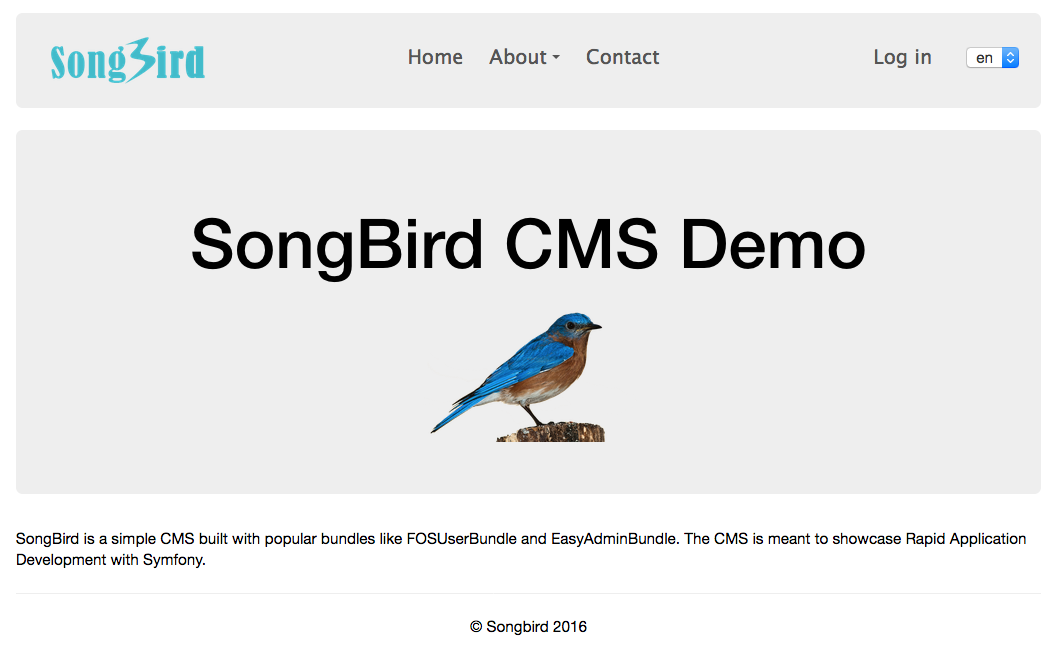
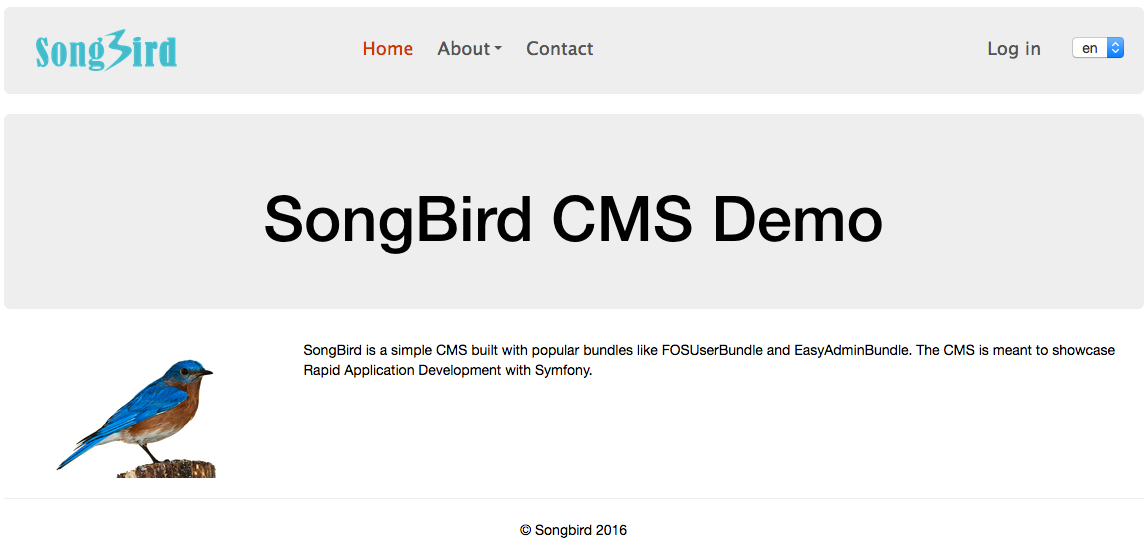
minor tweak to frontend

diff --git a/manuscript/Chapter_20.md b/manuscript/Chapter_20.md
@@ -198,12 +198,19 @@ We will now create a homepage view.
 {% if pagemeta is not null %}
 	<div class="jumbotron">
 		<h1 class="text-center">{{ pagemeta.getShortDescription() | raw }}</h1>
-		{%  if pagemeta.featuredImage is not null %}
-			<img class="featured_image" src="{{ vich_uploader_asset(pagemeta, 'featuredImageFile') }}" alt="{{ pagemeta.getShortDescription() | striptags }}"/>
-		{% endif %}
 	</div>
 
-	{{ pagemeta.getContent() | raw }}
+	<div class="row-fluid">
+		<div class="pull-left col-xs-3 col-md-3">
+			{%  if pagemeta.featuredImage is not null %}
+				<img class="featured_image" src="{{ vich_uploader_asset(pagemeta, 'featuredImageFile') }}" alt="{{ pagemeta.getShortDescription() | striptags }}"/>
+			{% endif %}
+		</div>
+		<div class="pull-right col-xs-9 col-md-9">
+			{{ pagemeta.getContent() | raw }}
+		</div>
+	</div>
+	<div class="clearfix"></div>
 
 {% endif %}
 {% endblock %}
@@ -225,7 +232,7 @@ and pages view
 {% block content %}
 
 	{% if pagemeta is not null %}
-	<h1>{{ pagemeta.getShortDescription() | raw }}</h1>
+	<h2>{{ pagemeta.getShortDescription() | raw }}</h2>
 
 	{%  if pagemeta.featuredImage is not null %}
 		<img class="featured_image" src="{{ vich_uploader_asset(pagemeta, 'featuredImageFile') }}" alt="{{ pagemeta.getShortDescription() | striptags }}"/>

diff --git a/manuscript/Introduction.md b/manuscript/Introduction.md
@@ -161,9 +161,12 @@ composer update
 If you are already getting impatient and wants to see a demo of the completed project, you can
 
 ```
+# If you are new to web development, you might be unfamiliar with some of the commands here. Don't worry as they will be explained as you follow through the chapters sequentially.
+
 -> git clone https://github.com/bernardpeh/songbird
 -> cd songbird
 -> git checkout chapter_final
+-> composer update
 -> vagrant up
 -> cd symfony
 -> composer update
@@ -180,6 +183,9 @@ If you are already getting impatient and wants to see a demo of the completed pr
 
 # add IP of your VM to your host file
 # eg. 192.168.56.111 songbird.app adminer.app
+
+# create the uploads dir
+mkdir -p web/uploads/featured_images
 
 # install db and fixtures
 -> scripts/resetapp

diff --git a/manuscript/Chapter_16.md b/manuscript/Chapter_16.md
@@ -345,7 +345,7 @@ var logStdOutAndErr = function (err, stdout, stderr) {
     console.log(stdout + stderr);
 };
 //define executable tasks when running "gulp" command
-gulp.task('default', ['js', 'css', 'fonts', 'installAssets', 'watch']);
+gulp.task('default', ['js', 'css', 'fonts', 'installAssets']);
 
 ```
 
